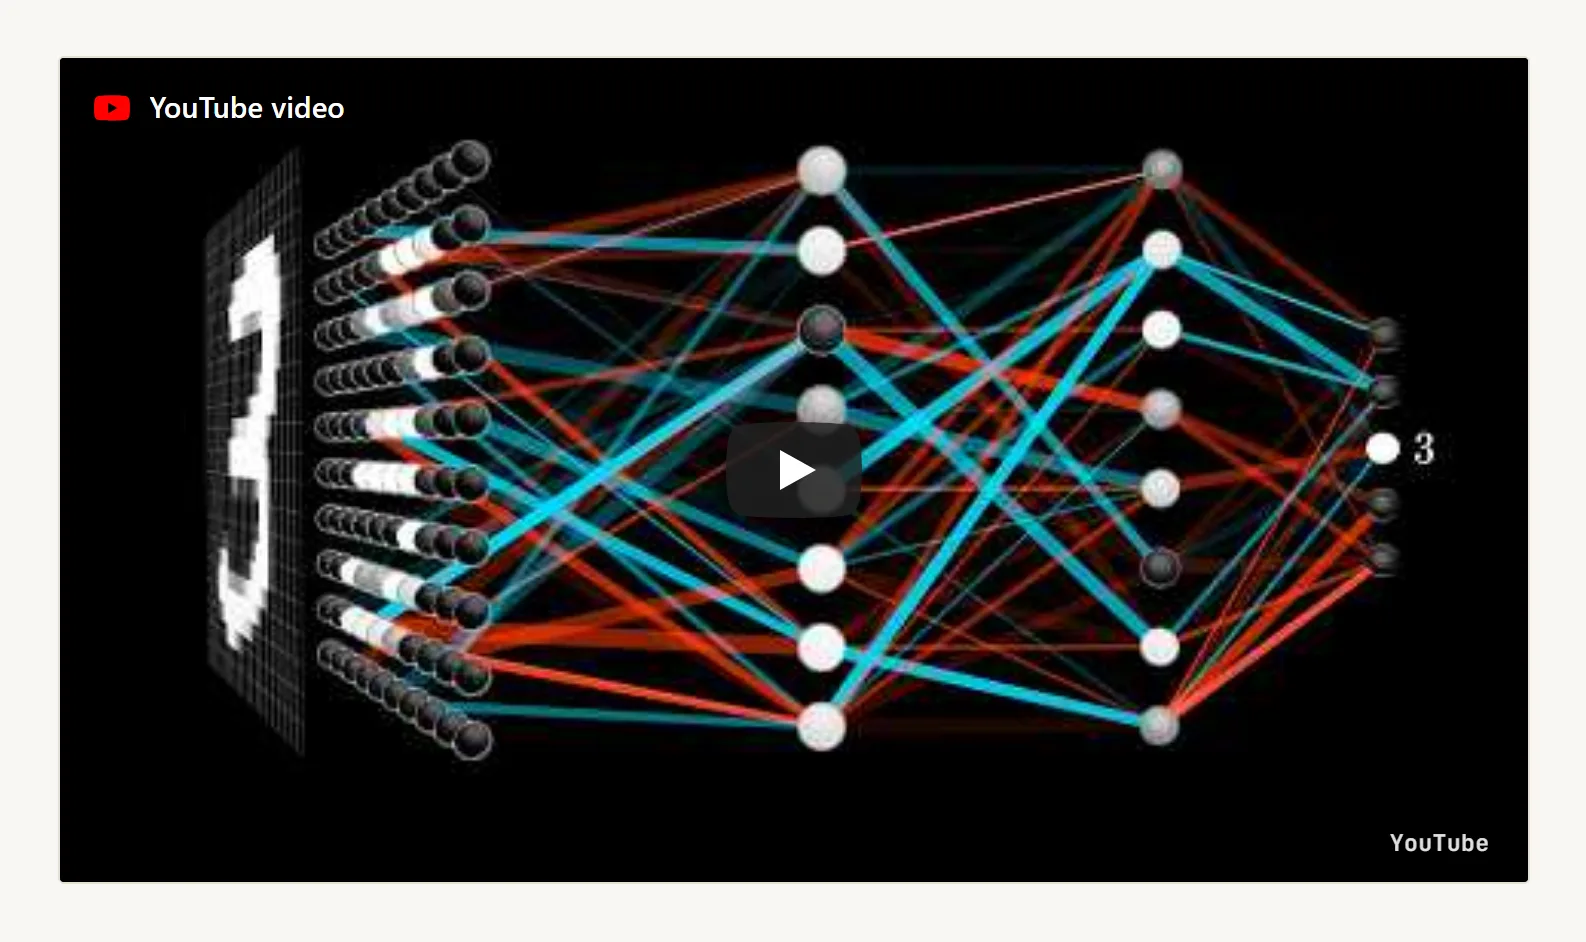
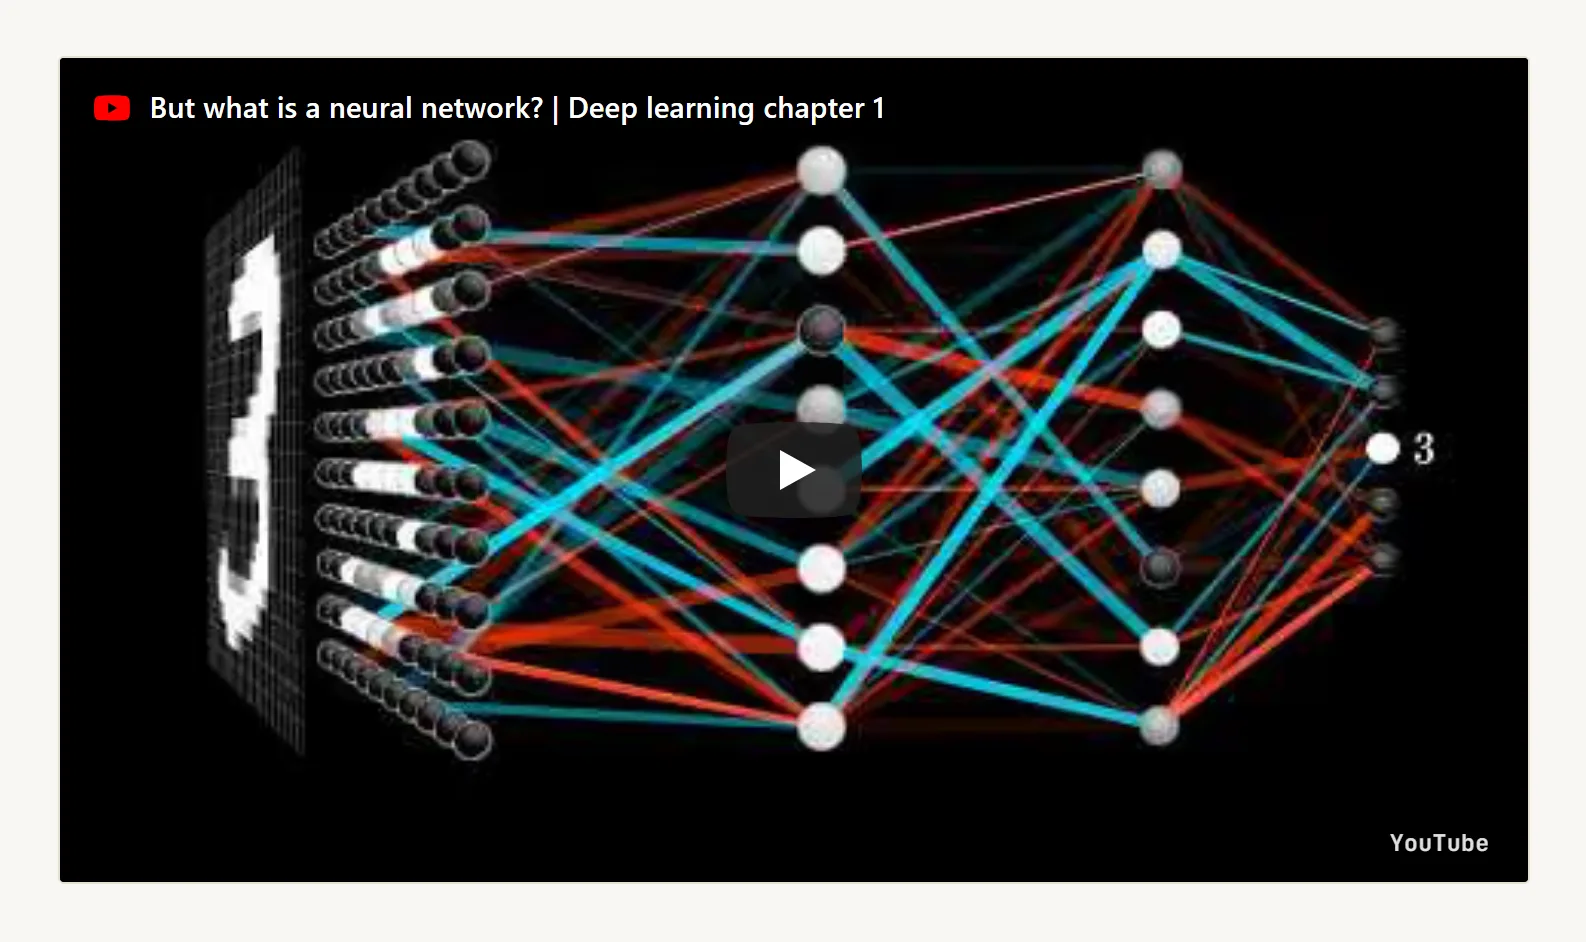
feat(video): 自动解析 YouTube 标题

Changed region(s): [[0.0927, 0.0924, 0.5561, 0.1231], [0.5252, 0.7081, 0.5561, 0.7389]]

diff --git a/src/lib/markdown.ts b/src/lib/markdown.ts
@@ -34,6 +34,7 @@ import { localizeRemoteAsset, type RemoteFetchFn } from './remote-assets.ts';
 import { renderPublications, type PublicationsConfig, type PublicationQuery } from './publications.ts';
 import { generateHeadingSlug } from './toc.ts';
 import { fetchBilibiliMeta } from './bilibili.ts';
+import { fetchYouTubeMeta } from './youtube.ts';
 import { getUiLabels, normalizeUiLang } from './ui-i18n.ts';
 import path from 'node:path';
 
@@ -918,10 +919,38 @@ function rehypeHeadingSlugs() {
 }
 
 /**
- * Bilibili 远程封面与视频信息自动解析：
- * 对未显式指定 poster 的 ::bilibili 指令，自动查询 Bilibili API 获取官方封面与标题，
- * 插入 <img class="embed-poster"> 并更新标题栏。随后由 rehypeLocalizeRemoteAssets 自动转为本地缓存。
+ * Bilibili / YouTube 远程封面与视频信息自动解析：
+ * - 未显式指定 poster 的 ::bilibili 指令自动查询 Bilibili API，获取官方封面与标题；
+ * - 未显式指定 title 的 ::youtube 指令自动查询 YouTube oEmbed，获取官方标题。
+ * 查询结果会更新标题栏与无障碍标签；随后由 rehypeLocalizeRemoteAssets 自动转为本地缓存。
  */
+function updateEmbedTitle(node: Element, title: string, kind: 'bilibili' | 'youtube', lang?: string): void {
+  node.properties = node.properties || {};
+  node.properties.dataEmbedTitle = title;
+  node.properties.ariaLabel = title;
+  const topBar = node.children.find(
+    (c) => c.type === 'element' && classesOf(c).includes('embed-topbar')
+  ) as Element | undefined;
+  const titleSpan = topBar?.children.find(
+    (c) => c.type === 'element' && classesOf(c).includes('embed-title')
+  ) as Element | undefined;
+  if (titleSpan) {
+    titleSpan.children = [{ type: 'text', value: title }];
+  }
+  const poster = node.children.find(
+    (c) => c.type === 'element' && c.tagName === 'img' && classesOf(c).includes('embed-poster')
+  ) as Element | undefined;
+  if (poster) {
+    poster.properties.alt = title;
+  }
+  const playBtn = node.children.find(
+    (c) => c.type === 'element' && classesOf(c).includes('embed-play-btn')
+  ) as Element | undefined;
+  if (playBtn) {
+    playBtn.properties.ariaLabel = `${getUiLabels(lang).embed[kind === 'bilibili' ? 'bilibiliPlay' : 'youtubePlay']}: ${title}`;
+  }
+}
+
 function rehypeResolveEmbeds(options: MarkdownOptions) {
   return async (tree: HastRoot) => {
     const jobs: Promise<void>[] = [];
@@ -953,24 +982,23 @@ function rehypeResolveEmbeds(options: MarkdownOptions) {
                   node.children.unshift(img);
                 }
                 if (meta.title && (!node.properties?.dataEmbedTitle || node.properties.dataEmbedTitle === getUiLabels(options.lang).embed.bilibiliTitleFallback)) {
-                  node.properties.dataEmbedTitle = meta.title;
-                  node.properties.ariaLabel = meta.title;
-                  const topBar = node.children.find(
-                    (c) => c.type === 'element' && classesOf(c).includes('embed-topbar')
-                  ) as Element | undefined;
-                  const titleSpan = topBar?.children.find(
-                    (c) => c.type === 'element' && classesOf(c).includes('embed-title')
-                  ) as Element | undefined;
-                  if (titleSpan) {
-                    titleSpan.children = [{ type: 'text', value: meta.title }];
-                  }
-                  const playBtn = node.children.find(
-                    (c) => c.type === 'element' && classesOf(c).includes('embed-play-btn')
-                  ) as Element | undefined;
-                  if (playBtn) {
-                    playBtn.properties.ariaLabel = `${getUiLabels(options.lang).embed.bilibiliPlay}: ${meta.title}`;
-                  }
+                  updateEmbedTitle(node, meta.title, 'bilibili', options.lang);
                 }
+              }
+            })
+          );
+        }
+      } else if (kind === 'youtube' && typeof id === 'string' && id) {
+        if (node.properties?.dataEmbedTitle === getUiLabels(options.lang).embed.youtubeTitleFallback) {
+          const cacheDir = options.localizeAssets ? path.join(path.dirname(options.localizeAssets.dataDir), '.cache') : undefined;
+          jobs.push(
+            fetchYouTubeMeta(id, {
+              cacheDir,
+              fetchFn: options.localizeAssets?.fetchFn,
+              warn: options.localizeAssets?.warn,
+            }).then((meta) => {
+              if (meta?.title) {
+                updateEmbedTitle(node, meta.title, 'youtube', options.lang);
               }
             })
           );
@@ -1144,7 +1172,7 @@ export function createMarkdownProcessor(options: MarkdownOptions = {}) {
     processor.use(() => rehypePublications(options.publications!, options.lang, options.defaultLang, baseUrl));
   }
 
-  // 自动解析 Bilibili 远程封面并在随后触发本地化下载
+  // 自动解析 Bilibili / YouTube 远程信息，并在随后触发本地化下载
   processor.use(() => rehypeResolveEmbeds(options));
 
   // 远程媒体下载在 sanitize/iframe 过滤之后：只改写 src/poster 属性，不影响结构

diff --git a/src/lib/youtube.ts b/src/lib/youtube.ts
@@ -1,0 +1,127 @@
+/**
+ * YouTube 视频元数据解析：
+ * 通过官方 oEmbed 接口获取标题与封面 URL，
+ * 并持久化在 .cache/youtube.json 中，避免构建时重复请求。
+ */
+import { existsSync, mkdirSync, readFileSync, renameSync, writeFileSync } from 'node:fs';
+import path from 'node:path';
+
+export interface YouTubeMeta {
+  id: string;
+  title: string;
+  thumbnail_url: string;
+  fetched_at: number;
+}
+
+export type YouTubeMetaMap = Record<string, YouTubeMeta>;
+
+const USER_AGENT =
+  'Mozilla/5.0 (Windows NT 10.0; Win64; x64) AppleWebKit/537.36 (KHTML, like Gecko) Chrome/120.0.0.0 Safari/537.36';
+const DEFAULT_TIMEOUT_MS = 10_000;
+
+const memoryCache = new Map<string, YouTubeMetaMap>();
+const inflight = new Map<string, Promise<YouTubeMeta | null>>();
+
+function cacheFileOf(cacheDir?: string): string {
+  return path.join(cacheDir ?? path.resolve('.cache'), 'youtube.json');
+}
+
+export function loadYouTubeCache(cacheDir?: string): YouTubeMetaMap {
+  const file = cacheFileOf(cacheDir);
+  let map = memoryCache.get(file);
+  if (map) return map;
+  try {
+    if (existsSync(file)) {
+      map = JSON.parse(readFileSync(file, 'utf8')) as YouTubeMetaMap;
+    } else {
+      map = {};
+    }
+  } catch {
+    map = {};
+  }
+  memoryCache.set(file, map);
+  return map;
+}
+
+export function saveYouTubeCache(map: YouTubeMetaMap, cacheDir?: string): void {
+  const file = cacheFileOf(cacheDir);
+  mkdirSync(path.dirname(file), { recursive: true });
+  const tmp = `${file}.tmp`;
+  writeFileSync(tmp, `${JSON.stringify(map, null, 2)}\n`, 'utf8');
+  renameSync(tmp, file);
+  memoryCache.set(file, map);
+}
+
+export interface FetchYouTubeOptions {
+  cacheDir?: string;
+  fetchFn?: (url: string, init?: RequestInit) => Promise<Response>;
+  now?: () => number;
+  timeoutMs?: number;
+  warn?: (msg: string) => void;
+}
+
+/**
+ * 获取单个 YouTube 视频的元数据（标题 + 封面图 URL）。
+ * 优先读缓存；未命中时调用官方 oEmbed 接口，成功后写入缓存；
+ * 网络失败回退 null，不阻断构建。
+ */
+export async function fetchYouTubeMeta(
+  id: string,
+  options: FetchYouTubeOptions = {},
+): Promise<YouTubeMeta | null> {
+  const { cacheDir, timeoutMs = DEFAULT_TIMEOUT_MS, warn = console.warn } = options;
+  const now = options.now ?? (() => Date.now());
+  const fetchFn = options.fetchFn ?? (globalThis.fetch as typeof fetch);
+
+  const cleanId = id.trim();
+  if (!cleanId) return null;
+
+  const map = loadYouTubeCache(cacheDir);
+  if (map[cleanId]) {
+    return map[cleanId];
+  }
+
+  const cacheKey = `${cacheDir ?? ''}:${cleanId}`;
+  let p = inflight.get(cacheKey);
+  if (!p) {
+    p = (async () => {
+      try {
+        const watchUrl = `https://www.youtube.com/watch?v=${encodeURIComponent(cleanId)}`;
+        const url = `https://www.youtube.com/oembed?format=json&url=${encodeURIComponent(watchUrl)}`;
+        const res = await fetchFn(url, {
+          headers: {
+            'User-Agent': USER_AGENT,
+            Accept: 'application/json, text/plain, */*',
+          },
+          signal: AbortSignal.timeout(timeoutMs),
+        });
+        if (!res.ok) throw new Error(`HTTP ${res.status}`);
+        const json = (await res.json()) as { title?: string; thumbnail_url?: string };
+        if (!json.title) throw new Error('Missing title');
+        const entry: YouTubeMeta = {
+          id: cleanId,
+          title: json.title,
+          thumbnail_url: json.thumbnail_url ?? '',
+          fetched_at: now(),
+        };
+        const currentMap = loadYouTubeCache(cacheDir);
+        currentMap[cleanId] = entry;
+        saveYouTubeCache(currentMap, cacheDir);
+        return entry;
+      } catch (e) {
+        warn(`获取 YouTube 视频 (${cleanId}) 信息失败：${(e as Error).message}。/ Failed to fetch YouTube metadata for ${cleanId}`);
+        return null;
+      }
+    })();
+    inflight.set(cacheKey, p);
+    void p.then(() => {
+      if (inflight.get(cacheKey) === p) inflight.delete(cacheKey);
+    });
+  }
+  return p;
+}
+
+export function resetYouTubeState(): void {
+  memoryCache.clear();
+  inflight.clear();
+}

diff --git a/tests/markdown.test.ts b/tests/markdown.test.ts
@@ -123,7 +123,12 @@ describe('自定义指令：内嵌播放器', () => {
   });
 
   it('::youtube 渲染高性能门面播放器卡片（Facade 带默认缩略图）', async () => {
-    const html = await renderMarkdown('::youtube{id="dQw4w9WgXcQ"}');
+    const html = await renderMarkdown('::youtube{id="dQw4w9WgXcQ"}', {
+      localizeAssets: {
+        dataDir: 'data.example',
+        fetchFn: (async () => ({ ok: false, status: 404 }) as unknown as Response) as any,
+      },
+    });
     expect(html).toContain('class="embed-player embed-youtube"');
     expect(html).toContain('data-embed-src="https://www.youtube-nocookie.com/embed/dQw4w9WgXcQ?autoplay=1"');
     expect(html).toContain('embed-play-btn-yt');
@@ -166,6 +171,35 @@ describe('自定义指令：内嵌播放器', () => {
     expect(html).toContain('class="embed-player embed-bilibili"');
     expect(html).toContain('alt="字幕君交流场所"');
     expect(html).toContain('字幕君交流场所');
+  });
+
+  it('::youtube 自动解析视频标题并更新标题栏', async () => {
+    const mockFetch = vi.fn(async (url: string) => {
+      if (url.startsWith('https://www.youtube.com/oembed')) {
+        return {
+          ok: true,
+          json: async () => ({
+            title: 'Mock YouTube Video Title',
+            thumbnail_url: 'https://i.ytimg.com/vi/mock-video/maxresdefault.jpg',
+          }),
+        } as unknown as Response;
+      }
+      return { ok: false, status: 404 } as unknown as Response;
+    });
+
+    const html = await renderMarkdown('::youtube{id="mock-video"}', {
+      localizeAssets: {
+        dataDir: 'data.youtube-test',
+        fetchFn: mockFetch as any,
+      },
+    });
+
+    expect(html).toContain('class="embed-player embed-youtube"');
+    expect(html).toContain('data-embed-title="Mock YouTube Video Title"');
+    expect(html).toContain('aria-label="Mock YouTube Video Title"');
+    expect(html).toContain('alt="Mock YouTube Video Title"');
+    expect(html).toContain('<span class="embed-title">Mock YouTube Video Title</span>');
+    expect(html).toContain('aria-label="Play YouTube video: Mock YouTube Video Title"');
   });
 
   it(':::video 渲染原生 video 标签', async () => {

diff --git a/README.md b/README.md
@@ -76,7 +76,7 @@ Each component below is captured individually from the production build (`npm ru
 
 ![Audio directive](docs/images/components/media-audio-en.webp)
 
-**Embedded Video Card (`::youtube`)** — A responsive 16:9 official-style facade with poster, title bar, and play button; the third-party iframe loads only after user interaction.
+**Embedded Video Card (`::youtube`)** — A responsive 16:9 official-style facade with poster, an automatically resolved video title, and play button; the third-party iframe loads only after user interaction.
 
 ![YouTube video card](docs/images/components/media-video-en.webp)
 

diff --git a/README.zh-CN.md b/README.zh-CN.md
@@ -76,7 +76,7 @@ OpenHomepage V2 是一款基于 Astro 构建的轻量级、杂志化排版纯静
 
 ![音频指令](docs/images/components/media-audio-zh.webp)
 
-**视频嵌入卡片（`::bilibili`）**——16:9 响应式官方门面卡片，展示封面、标题栏与播放按钮；点击后才加载第三方 iframe。
+**视频嵌入卡片（`::bilibili` / `::youtube`）**——16:9 响应式官方门面卡片，展示封面、自动解析的标题栏与播放按钮；点击后才加载第三方 iframe。
 
 ![Bilibili 视频卡片](docs/images/components/media-video-zh.webp)
 

diff --git a/data.example/pages/fr/features.md b/data.example/pages/fr/features.md
@@ -75,7 +75,7 @@ Texte à gauche. La typographie de magazine, c'est **les blancs et l'alignement*
 
 Les lecteurs affichent directement l'iframe officielle dans un conteneur 16:9 responsive (`loading="lazy"`, pour que le premier affichage reste rapide) :
 
-::youtube{id="aircAruvnKk"}
+::youtube{id="aircAruvnKk" poster="assets/cover-youtube-aircaruvnkk.jpg"}
 
 ::bilibili{bvid="BV13z421U7cs"}
 

diff --git a/data.example/pages/en/features.md b/data.example/pages/en/features.md
@@ -75,7 +75,7 @@ Text on the left. Magazine typography is about **whitespace and alignment**, not
 
 Players render the official iframe directly in a responsive 16:9 container (`loading="lazy"`, so first paint stays fast):
 
-::youtube{id="aircAruvnKk"}
+::youtube{id="aircAruvnKk" poster="assets/cover-youtube-aircaruvnkk.jpg"}
 
 ::bilibili{bvid="BV13z421U7cs"}
 

diff --git a/data.example/pages/ja/features.md b/data.example/pages/ja/features.md
@@ -75,7 +75,7 @@ $$
 
 プレイヤーは公式の iframe をレスポンシブな 16:9 コンテナに直接レンダリングします（`loading="lazy"` なので初回ペイントは高速のままです）：
 
-::youtube{id="aircAruvnKk"}
+::youtube{id="aircAruvnKk" poster="assets/cover-youtube-aircaruvnkk.jpg"}
 
 ::bilibili{bvid="BV13z421U7cs"}
 

diff --git a/data.example/pages/zh/features.md b/data.example/pages/zh/features.md
@@ -75,7 +75,7 @@ $$
 
 播放器以响应式 16:9 容器直接渲染官方 iframe（`loading="lazy"` 惰性加载，不拖慢首屏）：
 
-::youtube{id="aircAruvnKk"}
+::youtube{id="aircAruvnKk" poster="assets/cover-youtube-aircaruvnkk.jpg"}
 
 ::bilibili{bvid="BV13z421U7cs"}
 
